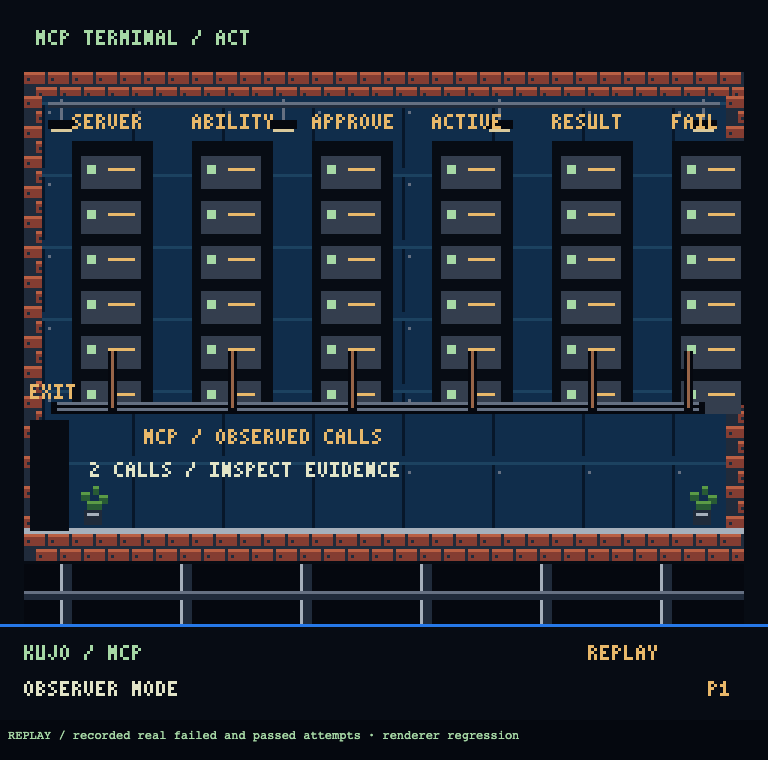
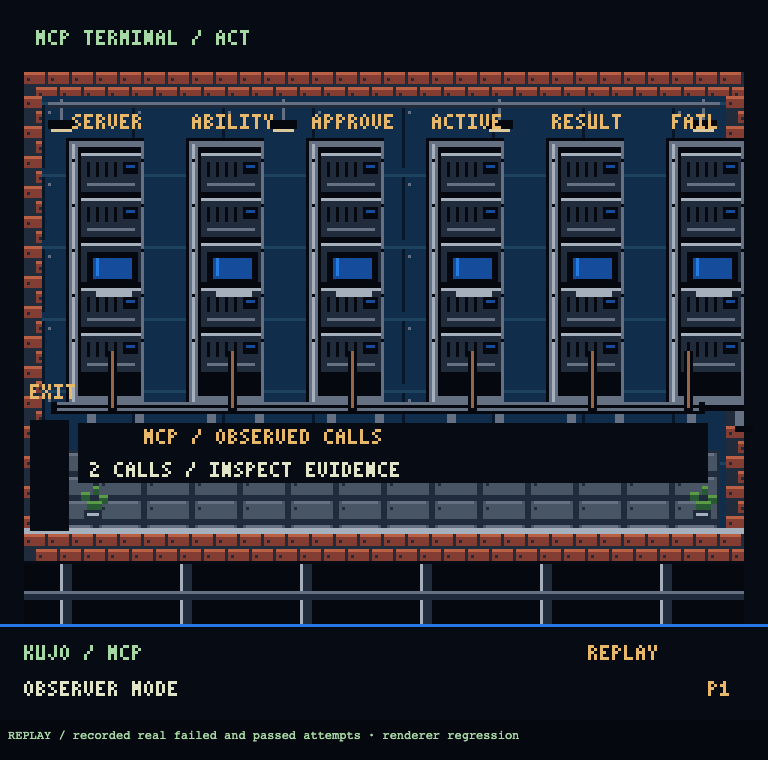
Replace service-room placeholders with original industrial fixtures

Changed region(s): [[0.0625, 0.1816, 0.9688, 0.6961]]

diff --git a/packages/renderer-pixi/scenery.ts b/packages/renderer-pixi/scenery.ts
@@ -345,6 +345,86 @@ export function cableTray(g: Graphics) {
   }
 }
 
+/** Passive service-room materials. No lamps encode health or task outcomes. */
+export function serviceFloor(g: Graphics, brass = false) {
+  rect(g, 16, 150, 224, 26, P.mortar);
+  for (let y = 150; y < 176; y += 8)
+    for (let x = 16; x < 240; x += 16) {
+      rect(
+        g,
+        x + 1,
+        y + 1,
+        14,
+        Math.min(6, 175 - y),
+        brass ? 0x766044 : 0x485565,
+      );
+      rect(g, x + 2, y + 1, 12, 1, brass ? 0x9d8557 : P.stone);
+      rect(g, x + 2, y + 3, 1, 1, P.mortar);
+    }
+}
+
+export function dispatchFixtures(g: Graphics) {
+  serviceFloor(g);
+  // Recessed routing cabinets: empty trays, engraved dividers and steel casings.
+  // The station names are projected separately; these are not workflow bars.
+  for (let x = 18; x < 230; x += 38) {
+    rect(g, x - 1, 56, 34, 65, P.ink);
+    rect(g, x, 57, 32, 63, P.stone);
+    rect(g, x + 1, 58, 30, 1, P.light);
+    rect(g, x + 2, 60, 28, 57, P.mortar);
+    for (let y = 64; y < 113; y += 16) {
+      rect(g, x + 4, y, 24, 12, P.ink);
+      rect(g, x + 5, y + 1, 22, 2, P.blue);
+      rect(g, x + 6, y + 3, 20, 6, 0x122038);
+      rect(g, x + 4, y + 10, 24, 2, P.stone);
+      rect(g, x + 14, y + 10, 5, 1, P.light);
+    }
+    for (const y of [59, 117]) {
+      rect(g, x + 1, y, 1, 1, P.ink);
+      rect(g, x + 30, y, 1, 1, P.ink);
+    }
+    // Shallow desk pedestals and empty chairs behind the character plane.
+    rect(g, x + 4, 157, 9, 17, P.ink);
+    rect(g, x + 5, 159, 7, 13, P.stone);
+    for (const y of [160, 165, 170]) rect(g, x + 7, y, 3, 1, P.light);
+    rect(g, x + 19, 150, 10, 16, P.ink);
+    rect(g, x + 20, 151, 8, 11, 0x414b77);
+    rect(g, x + 20, 166, 2, 9, P.stone);
+    rect(g, x + 27, 166, 2, 9, P.stone);
+  }
+  rect(g, 17, 123, 220, 4, P.ink);
+  rect(g, 17, 124, 220, 1, P.stone);
+  for (let x = 28; x < 233; x += 38) {
+    rect(g, x, 120, 3, 10, P.mortar);
+    rect(g, x, 121, 1, 8, P.light);
+  }
+}
+
+export function terminalRack(g: Graphics, x: number) {
+  // Original bolted chassis with vents, cable sockets and a recessed console.
+  rect(g, x - 2, 46, 26, 91, P.ink);
+  rect(g, x - 1, 47, 25, 88, P.stone);
+  rect(g, x, 48, 1, 86, P.light);
+  rect(g, x + 2, 49, 21, 83, P.ink);
+  for (let y = 51; y < 125; y += 15) {
+    rect(g, x + 3, y, 20, 13, P.mortar);
+    rect(g, x + 3, y, 20, 1, P.light);
+    for (let dx = 5; dx < 15; dx += 3) rect(g, x + dx, y + 3, 1, 5, P.ink);
+    rect(g, x + 17, y + 3, 5, 4, P.ink);
+    rect(g, x + 18, y + 4, 3, 1, P.blue);
+    rect(g, x + 5, y + 10, 16, 1, P.stone);
+    for (const dx of [0, 23]) rect(g, x + dx, y + 2, 1, 1, P.ink);
+  }
+  rect(g, x + 5, 84, 17, 11, P.ink);
+  rect(g, x + 7, 86, 13, 7, P.blue);
+  rect(g, x + 8, 86, 1, 6, P.glass);
+  rect(g, x + 8, 97, 12, 2, P.light);
+  for (const dx of [5, 21]) {
+    rect(g, x + dx, 137, 3, 6, P.stone);
+    rect(g, x + dx, 142, 6, 2, P.ink);
+  }
+}
+
 export function roomFloor(g: Graphics) {
   masonry(g, 8, 178, 240, 9, true);
   rect(g, 8, 176, 240, 2, P.light);

diff --git a/packages/renderer-pixi/index.ts b/packages/renderer-pixi/index.ts
@@ -5,6 +5,9 @@ import {
   consoleDesk,
   briefingRoom,
   cableTray,
+  serviceFloor,
+  dispatchFixtures,
+  terminalRack,
   roomShell,
   roomFloor,
   plant,
@@ -406,16 +409,17 @@ export class CityRenderer {
     );
     roomShell(g);
     if (dispatch || meeting) {
+      if (dispatch) dispatchFixtures(g);
       const labels = dispatch
         ? ["INTAKE", "ASSIGN", "WORKFLOW", "RETRY", "BLOCK", "DONE"]
         : ["CONTEXT", "RELATION", "EVIDENCE"];
       labels.forEach((label, i) => {
         const x = dispatch ? 18 + i * 38 : 24 + i * 76;
-        box(g, x, 58, dispatch ? 32 : 64, dispatch ? 59 : 42, C.black);
-        box(g, x + 2, 60, dispatch ? 28 : 60, 1, C.blue);
-        text(g, label, x + 2, 43, C.gold);
-        if (dispatch)
-          for (let y = 70; y < 110; y += 12) box(g, x + 5, y, 21, 2, C.teal);
+        if (meeting) {
+          box(g, x, 58, 64, 42, C.black);
+          box(g, x + 2, 60, 60, 1, C.blue);
+        }
+        text(g, label, x + 2, dispatch ? 47 : 43, C.gold);
         if (dispatch) consoleDesk(g, x + 1, 145, 28);
       });
       if (meeting) {
@@ -429,6 +433,7 @@ export class CityRenderer {
           text(g, label, 190, 76 + i * 8, C.white),
         );
       }
+      if (dispatch) box(g, 16, 164, 217, 9, C.black);
       text(
         g,
         meeting ? "MEETING HALL / CONTEXT" : "SOURCE-OWNED TASK STATE",
@@ -437,6 +442,7 @@ export class CityRenderer {
         C.white,
       );
     } else if (dojo) {
+      serviceFloor(g, true);
       ["schema", "content", "policy", "skipped"].forEach((name, i) => {
         const x = 22 + i * 56;
         box(g, x, 62, 46, 90, C.black);
@@ -473,6 +479,7 @@ export class CityRenderer {
         if (ops.some((o) => o.status === "skipped"))
           text(g, "SKIP", x + 14, 120, C.gold);
       });
+      box(g, 44, 163, 168, 9, C.black);
       text(g, "ACTUAL CHECK OUTCOMES", 48, 165, C.white);
     } else if (library) {
       libraryArchitecture(g);
@@ -493,25 +500,13 @@ export class CityRenderer {
       libraryFixtures(g);
       mezzanine(g);
     } else if (mcp) {
-      for (let x = 24; x < 240; x += 40) {
-        box(g, x, 47, 27, 88, C.black);
-        for (let y = 52; y < 128; y += 15) {
-          box(g, x + 3, y, 20, 11, C.road);
-          box(
-            g,
-            x + 5,
-            y + 3,
-            3,
-            3,
-            Math.floor(tick / 12) % 2 ? C.teal : C.mint,
-          );
-          box(g, x + 12, y + 4, 9, 1, C.gold);
-        }
-      }
+      serviceFloor(g);
+      for (let x = 24; x < 240; x += 40) terminalRack(g, x);
       cableTray(g);
       const calls = Object.values(truth.agents)
         .flatMap((a) => Object.values(a.operations))
         .filter((o) => o.capability === "mcp.call");
+      box(g, 26, 141, 210, 20, C.black);
       text(
         g,
         calls.length ? "MCP / OBSERVED CALLS" : "NO LIVE SOURCE",

diff --git a/scripts/cityscape-proof.ts b/scripts/cityscape-proof.ts
@@ -202,6 +202,13 @@ try {
     await page.screenshot({ path: resolve(out, scene + ".png") });
   }
   assert.deepEqual(errors, []);
+  const truthUnchangedAfterScenes =
+    (await page.evaluate(() => JSON.stringify((window as any).visualTruth))) ===
+    JSON.stringify(truth);
+  assert(
+    truthUnchangedAfterScenes,
+    "Room scenery changed recorded runtime truth",
+  );
   // Inspect the actual rendered opening in both rooms sharing the mezzanine.
   const ladderOpenings = await page.evaluate(() => {
     const r = (window as any).visualRenderer;
@@ -245,6 +252,7 @@ try {
         freshness,
         ladderOpenings,
         sameOrderSnapshotClearsPriorOutcomes: resetPixels === 0,
+        truthUnchangedAfterScenes,
         errors,
         at: new Date().toISOString(),
       },

diff --git a/evidence/cityscape/service-rooms-review.md b/evidence/cityscape/service-rooms-review.md
@@ -1,0 +1,9 @@
+# Service-room artwork review — 2026-09-08
+
+Dispatch now has original recessed routing cabinets, desk pedestals, empty chairs and service conduit. The MCP room uses bolted rack chassis, vents, sockets and recessed blue consoles instead of repeated green light blocks. Dispatch/MCP/Dojo use patterned service flooring; black caption panels preserve status contrast. All fixtures are static architecture, never operation evidence.
+
+The supplied industrial-room references informed material density and black/navy/steel framing. No protected image pixels or sprites were copied. This improves three simpler rooms but does not establish visual equivalence or user fidelity approval.
+
+Verification: TypeScript and production build PASS. scripts/cityscape-proof.ts rendered the real retained failure/pass corpus in Chromium 151, with 34 failed-glyph pixels and 32 passed-glyph pixels at the existing Dojo station. Switching all scenes leaves serialized runtime truth identical. Snapshot replacement still clears prior outcomes, injected time ages labels, and both authored ladder openings remain visible. No browser errors. Final Dispatch/MCP screenshots were visually inspected; labels remain readable over the new flooring. No runtime producer, map, route, portal, station or replay-version changes were made. These screenshots are REPLAY, not fresh live operations.
+
+Current evidence: dispatch.png, mcp.png, dojo-real-history.png, proof.json. This source artwork postdates the 8087ded preview archive; that archive remains the last packaged startup proof and does not contain this art pass. No soak or real model request was run.
